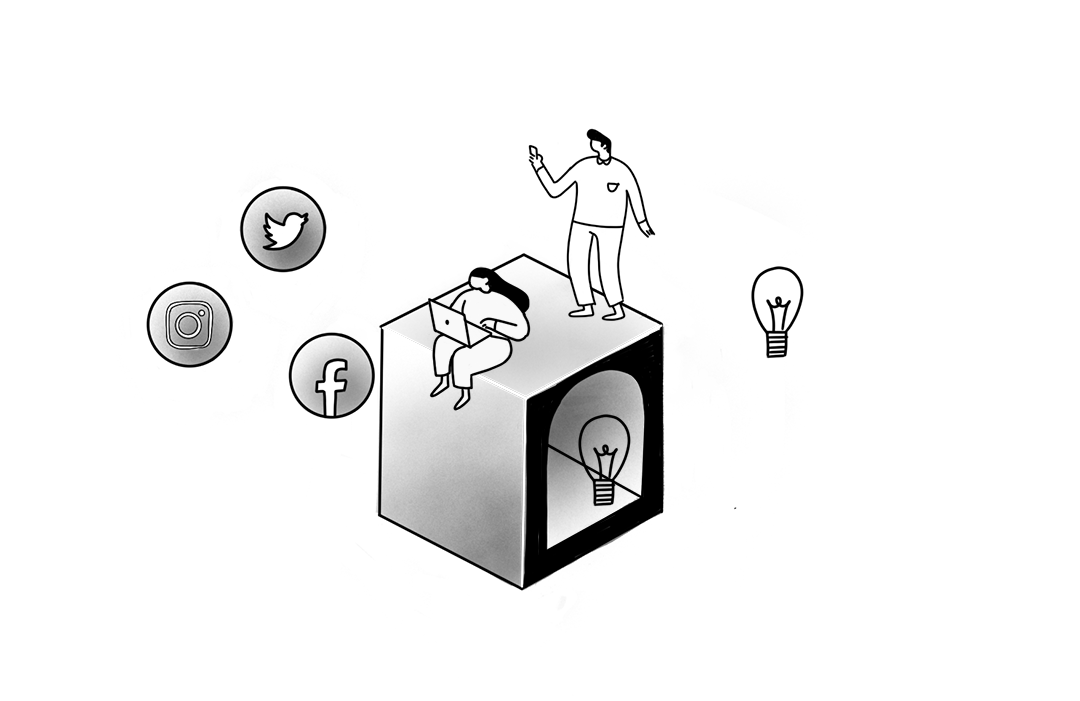
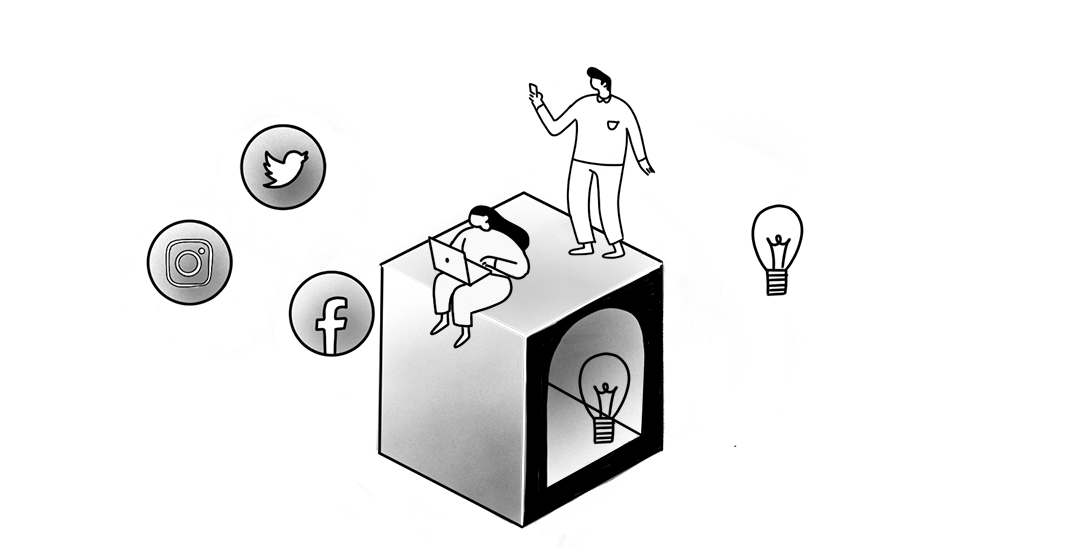
home

diff --git a/index.html b/index.html
@@ -33,6 +33,12 @@
         ga('send', 'pageview');
     </script>
     
+    <meta property="og:url"                content="https://ddim.it" />
+    <meta property="og:type"               content="website" />
+    <meta property="og:title"              content="Digital Driven Ideation Methods" />
+    <meta property="og:description"        content="SIX DATA-DRIVEN METHODS TO IDEATE AND CO-CREATE" />
+    <meta property="og:image"              content="./img/illustrazioni/Intro.png" />
+
     
     <script src="https://smtpjs.com/v3/smtp.js"></script>
     
@@ -118,7 +124,7 @@
     
     <div class="row top-60">
         <div class="col-md-7">
-            <img src="img/rect.png">    
+            <img src="./img/illustrazioni/Intro.png">    
         </div>
         <div class="col-md-5">
             <div class="row left-0">
